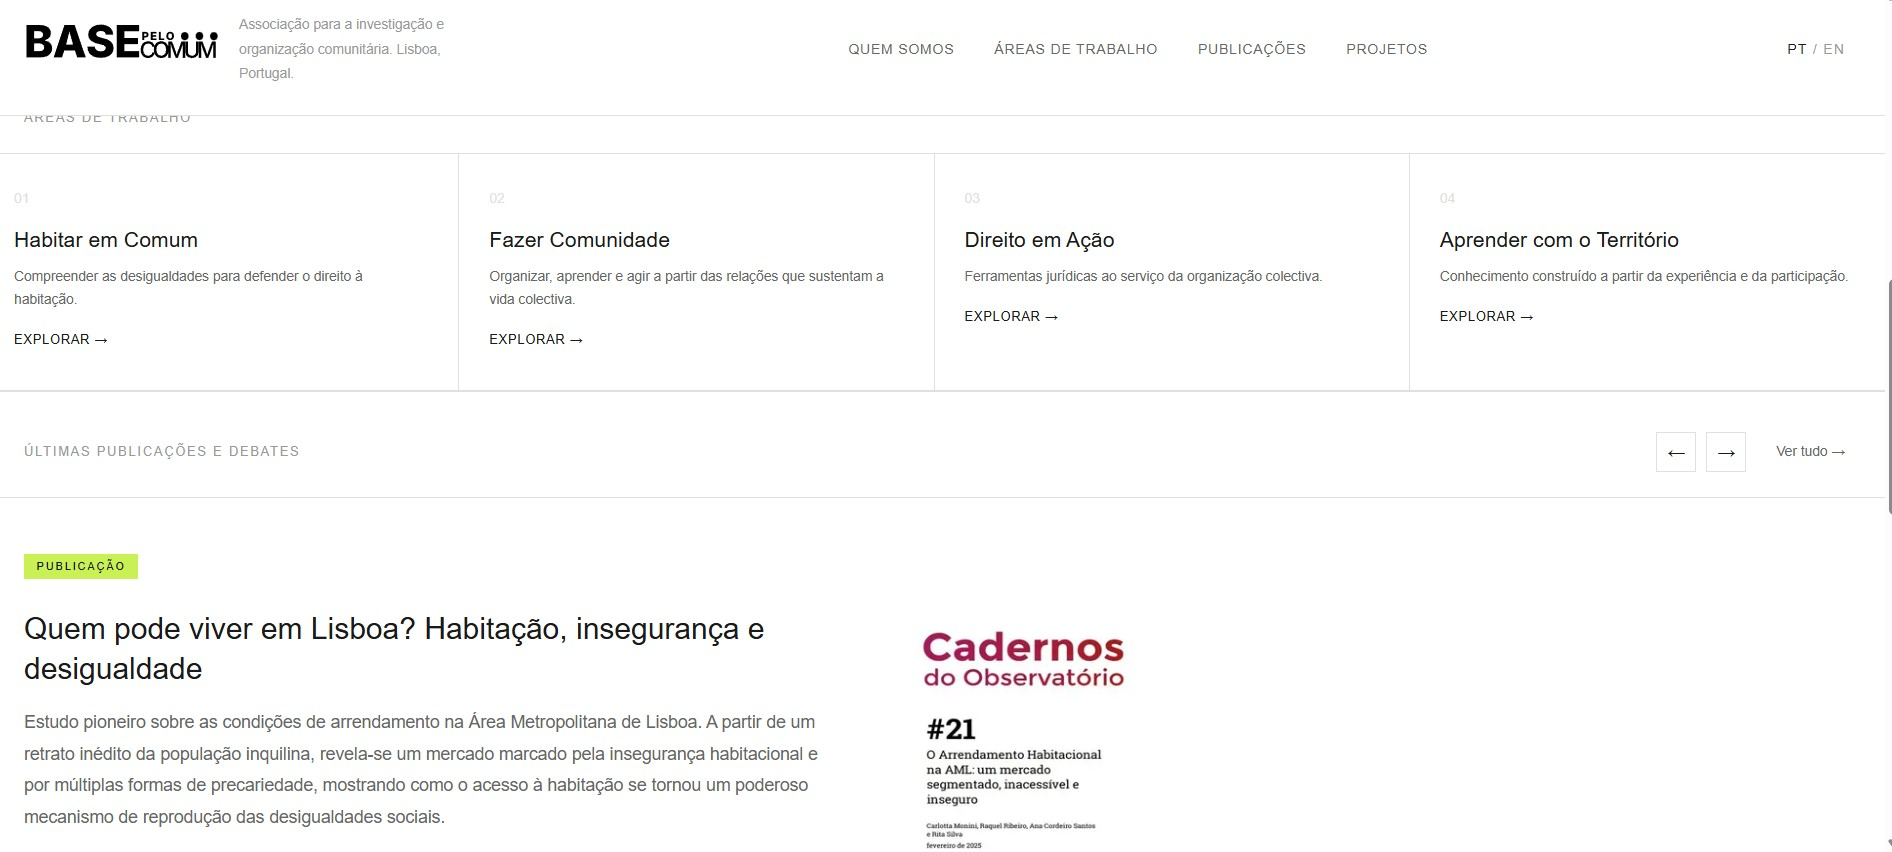
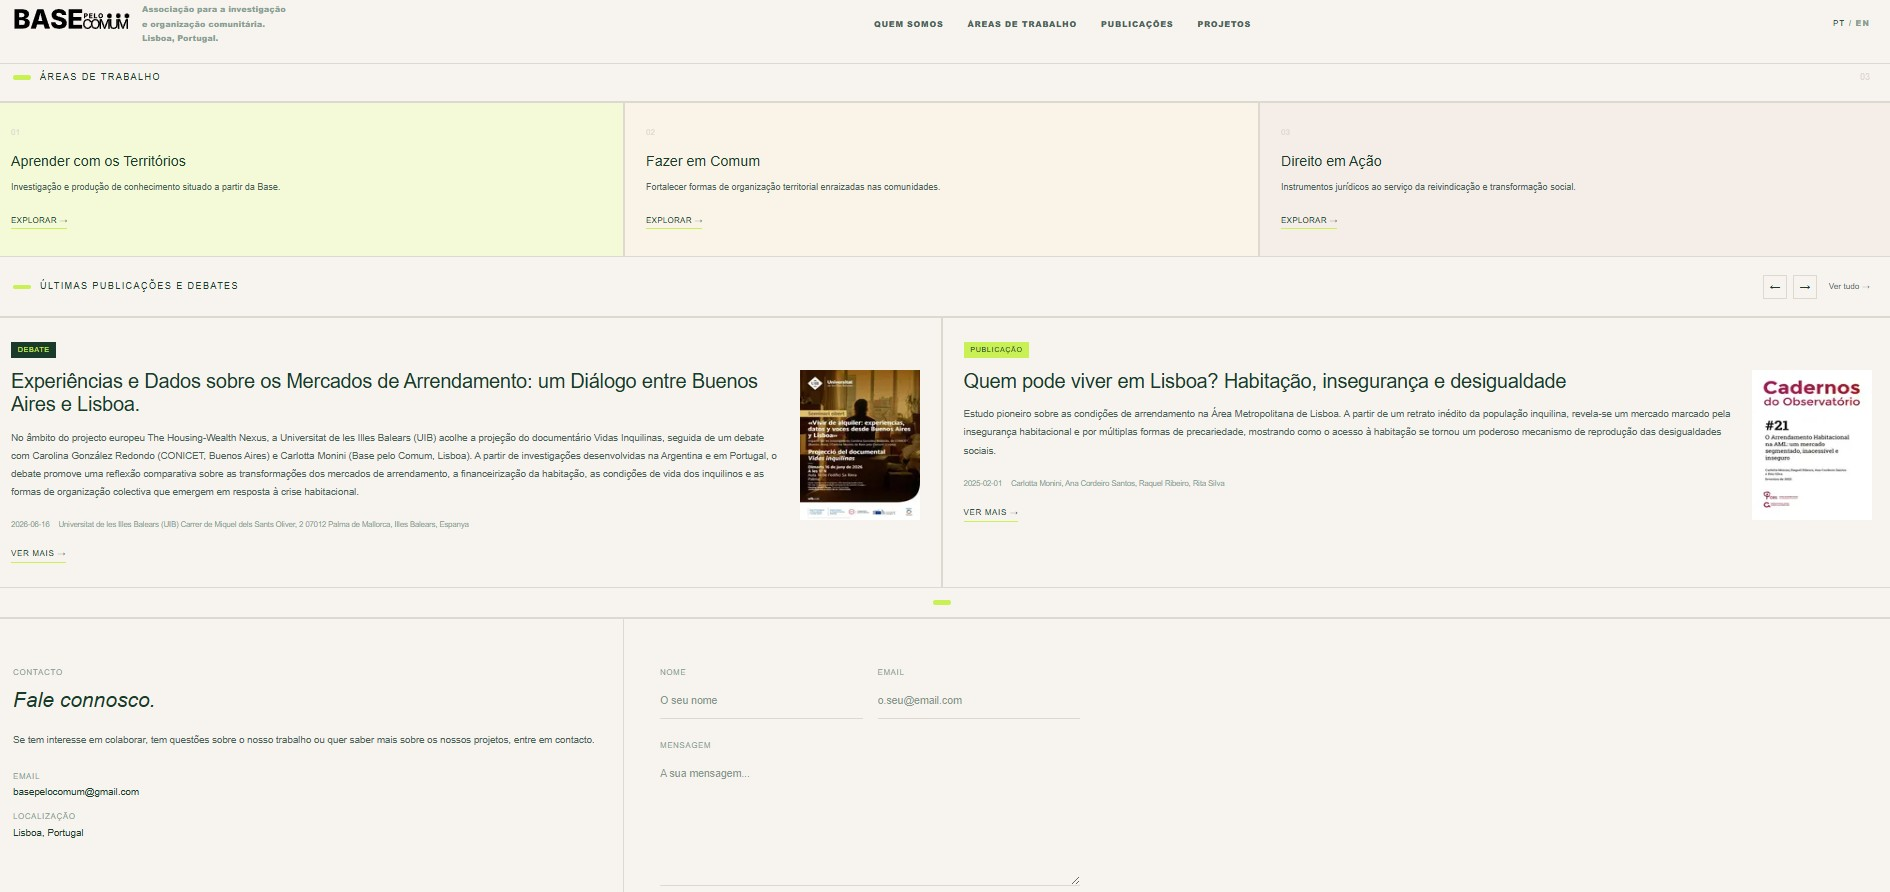
screenshot is clickable

diff --git a/src/components/ProjectFrame.tsx b/src/components/ProjectFrame.tsx
@@ -165,6 +165,7 @@ const PROJECTS = [
     images: [
       '/images/BPC1.jpg',
       '/images/BPC2.jpg',
+      '/images/BPC3.jpg',
     ],
   },
 ]
@@ -178,6 +179,19 @@ function ProjectRow({ project, flip = false }: ProjectRowProps) {
   const [slide, setSlide] = useState(0)
   const { lang } = useLang()
   const images = project.images
+
+  const handleFrameClick = () => {
+    if (!project.url) return
+    window.open(project.url, '_blank', 'noopener,noreferrer')
+  }
+
+  const handleFrameKeyDown = (e: React.KeyboardEvent) => {
+    if (!project.url) return
+    if (e.key === 'Enter' || e.key === ' ') {
+      e.preventDefault()
+      window.open(project.url, '_blank', 'noopener,noreferrer')
+    }
+  }
 
   return (
     <div className={`${styles.projectRow} ${flip ? styles.projectRowFlip : ''}`}>
@@ -205,7 +219,15 @@ function ProjectRow({ project, flip = false }: ProjectRowProps) {
       <div className={styles.imageSide}>
         <CornerDetail />
 
-        <div className={styles.mapFrame}>
+        <div
+          className={styles.mapFrame}
+          onClick={handleFrameClick}
+          onKeyDown={handleFrameKeyDown}
+          role={project.url ? 'link' : undefined}
+          tabIndex={project.url ? 0 : undefined}
+          aria-label={project.url ? `${project.label} — ${lang === 'EN' ? 'view live' : 'ver projeto'}` : undefined}
+          style={{ cursor: project.url ? 'pointer' : 'default' }}
+        >
           <div className={styles.screenshotTrack}>
             {images.map((src, i) => (
               <img
@@ -221,21 +243,30 @@ function ProjectRow({ project, flip = false }: ProjectRowProps) {
             <>
               <button
                 className={`${styles.slideBtn} ${styles.slideBtnPrev}`}
-                onClick={() => setSlide(s => (s - 1 + images.length) % images.length)}
+                onClick={(e) => {
+                  e.stopPropagation()
+                  setSlide(s => (s - 1 + images.length) % images.length)
+                }}
                 aria-label="Previous screenshot"
               >‹</button>
               <button
                 className={`${styles.slideBtn} ${styles.slideBtnNext}`}
-                onClick={() => setSlide(s => (s + 1) % images.length)}
+                onClick={(e) => {
+                  e.stopPropagation()
+                  setSlide(s => (s + 1) % images.length)
+                }}
                 aria-label="Next screenshot"
               >›</button>
 
-              <div className={styles.slideDots}>
+              <div className={styles.slideDots} onClick={(e) => e.stopPropagation()}>
                 {images.map((_, i) => (
                   <button
                     key={i}
                     className={`${styles.slideDot} ${i === slide ? styles.slideDotActive : ''}`}
-                    onClick={() => setSlide(i)}
+                    onClick={(e) => {
+                      e.stopPropagation()
+                      setSlide(i)
+                    }}
                     aria-label={`Go to screenshot ${i + 1}`}
                   />
                 ))}
